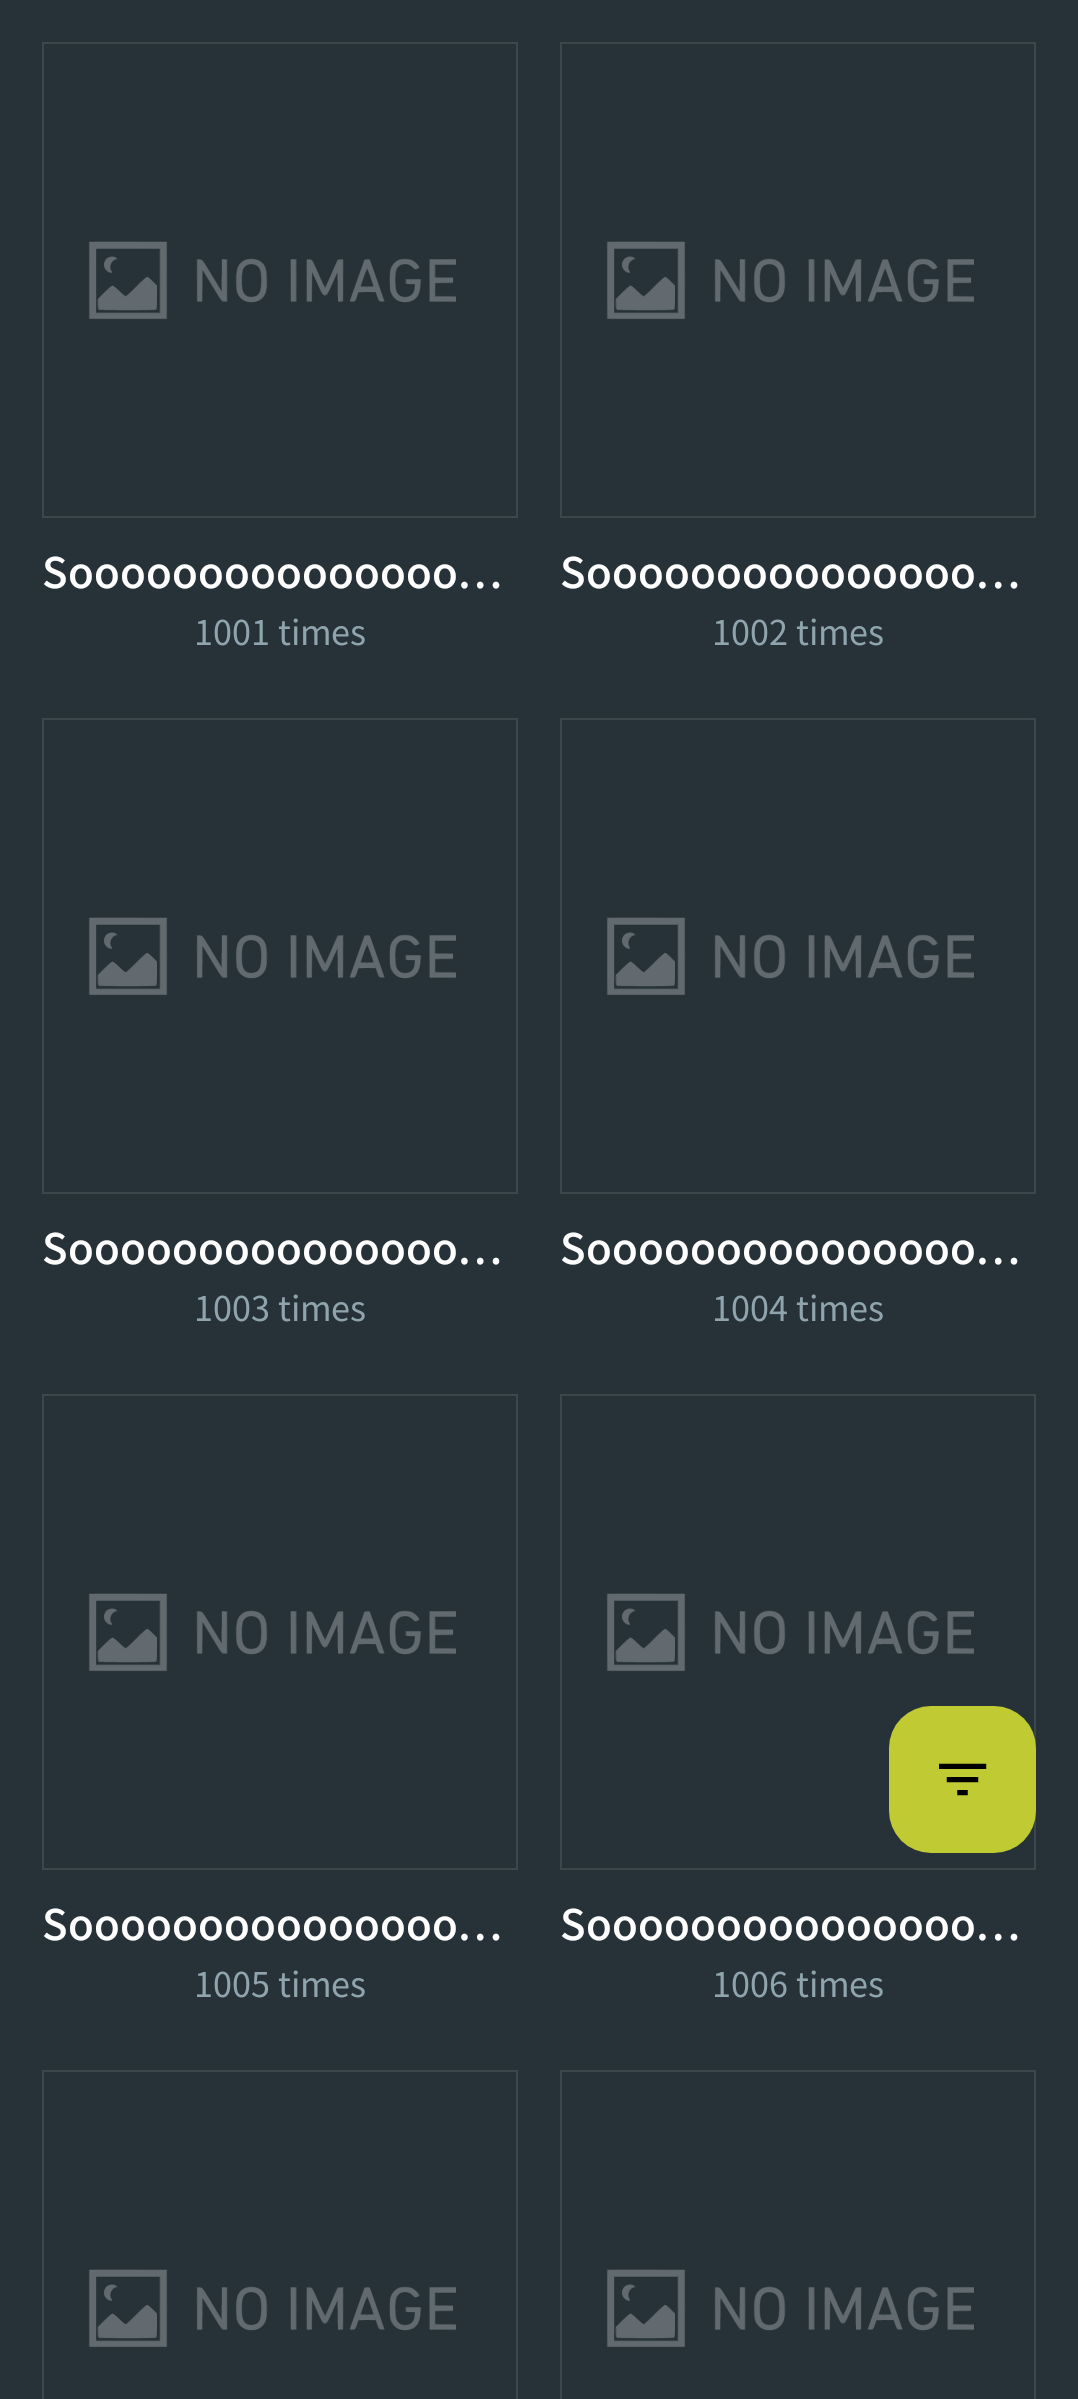
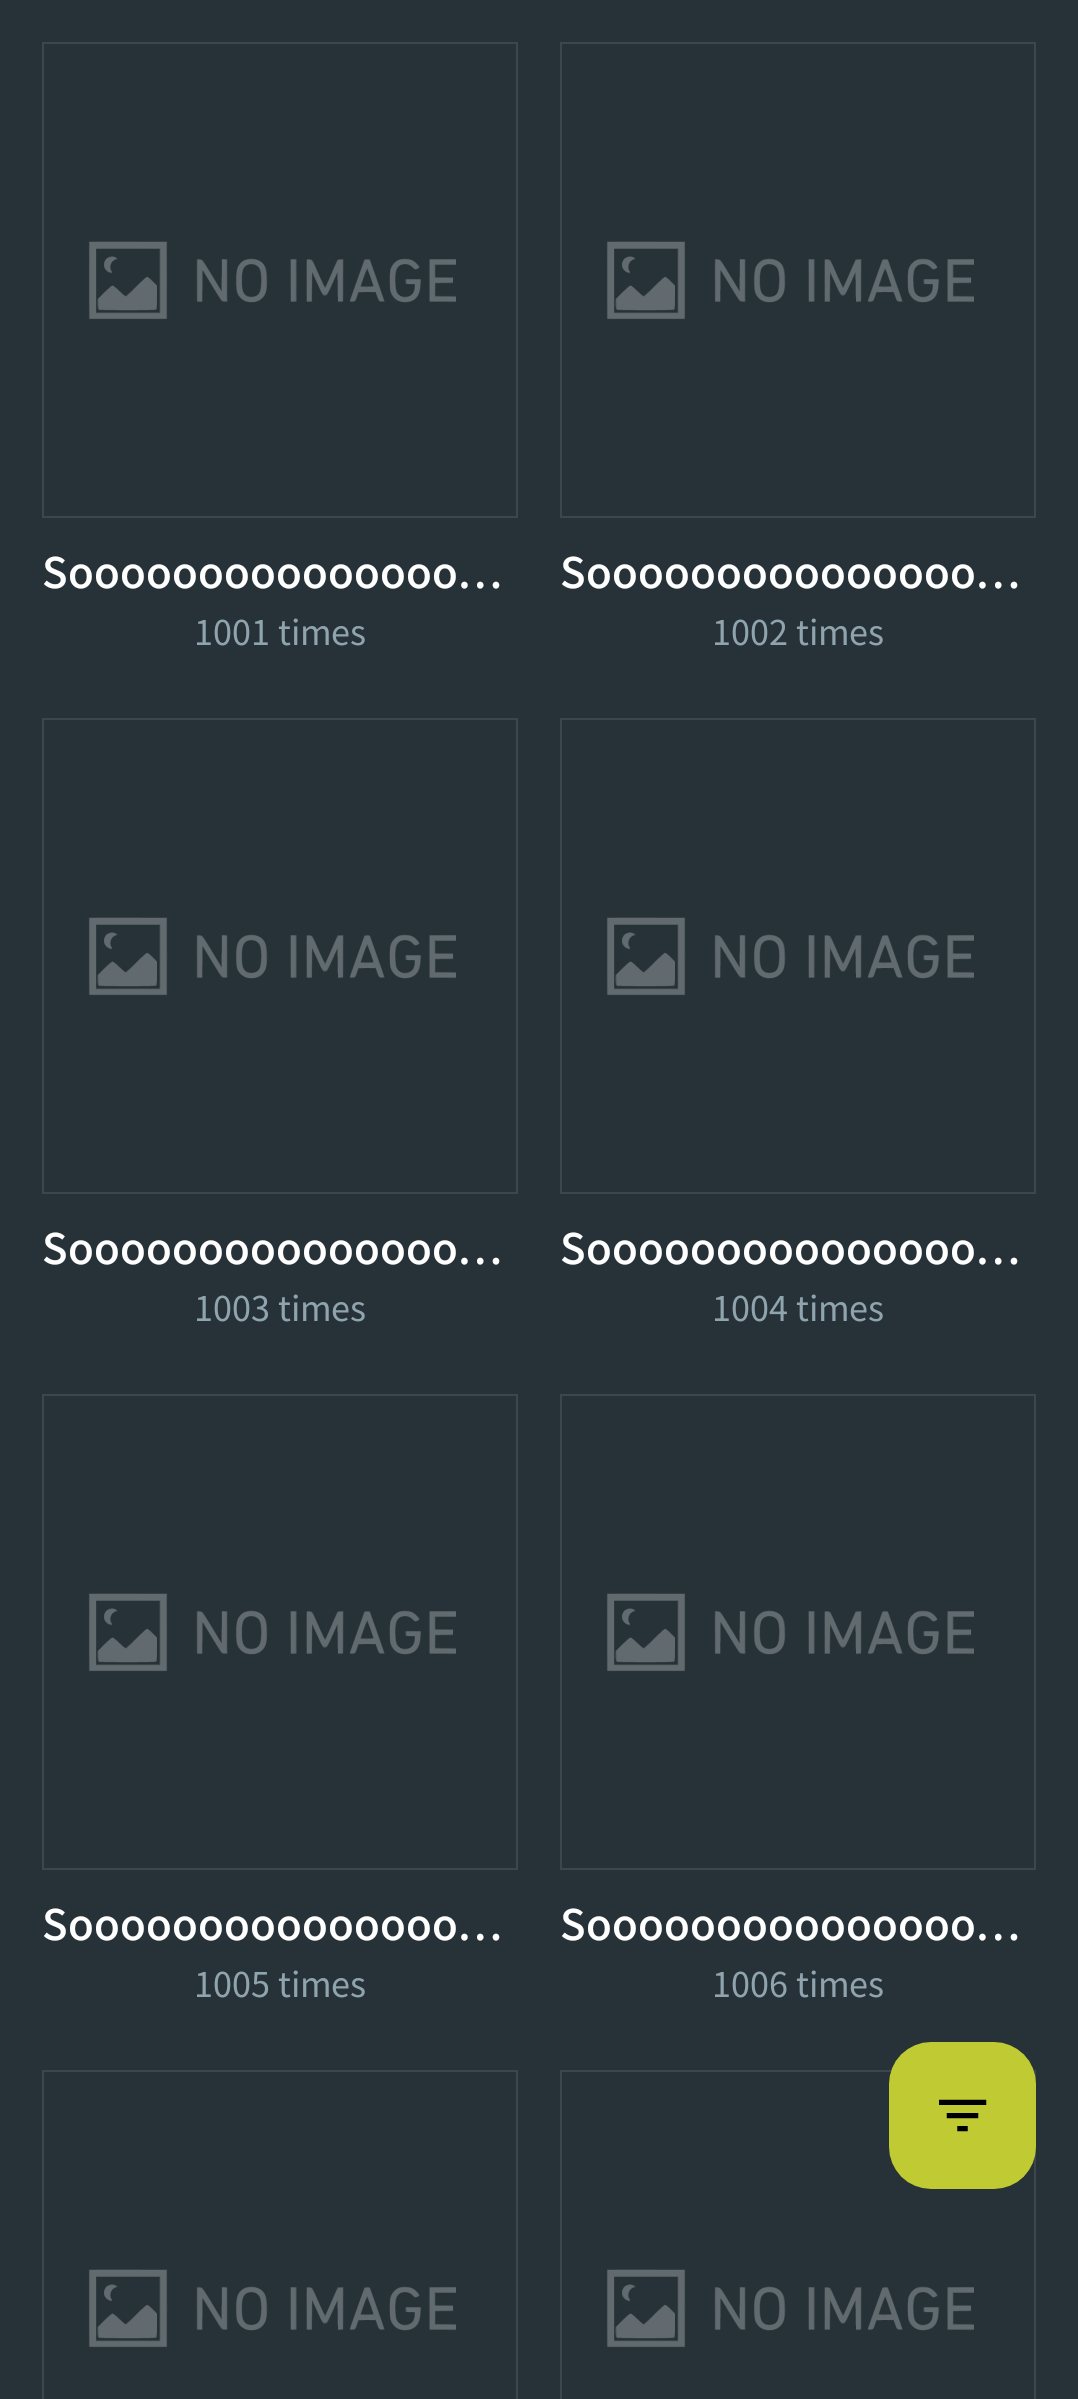
Fix FAB

Changed region(s): [[0.8265, 0.8328, 0.9796, 0.9254], [0.8265, 0.7095, 0.9796, 0.7712]]

diff --git a/feature/album/src/main/java/com/mataku/scrobscrob/album/ui/screen/TopAlbumsScreen.kt b/feature/album/src/main/java/com/mataku/scrobscrob/album/ui/screen/TopAlbumsScreen.kt
@@ -2,6 +2,7 @@ package com.mataku.scrobscrob.album.ui.screen
 
 import android.annotation.SuppressLint
 import android.content.res.Configuration
+import android.util.Log
 import androidx.activity.compose.BackHandler
 import androidx.compose.animation.AnimatedContentScope
 import androidx.compose.animation.SharedTransitionScope
@@ -10,7 +11,7 @@ import androidx.compose.foundation.layout.PaddingValues
 import androidx.compose.foundation.layout.WindowInsets
 import androidx.compose.foundation.layout.displayCutout
 import androidx.compose.foundation.layout.fillMaxSize
-import androidx.compose.foundation.layout.padding
+import androidx.compose.foundation.layout.offset
 import androidx.compose.foundation.lazy.grid.GridCells
 import androidx.compose.foundation.lazy.grid.GridItemSpan
 import androidx.compose.foundation.lazy.grid.LazyVerticalGrid
@@ -79,6 +80,9 @@ fun TopAlbumsScreen(
       topAppBarScrollBehavior.state.heightOffset
     }
   }
+  with(LocalDensity.current) {
+    Log.d("MATAKUDEBUG", "TopAppBarHeight dp: ${topAppBarHeightPixel.toDp()}")
+  }
   val density = LocalDensity.current
   Scaffold(
     floatingActionButton = {
@@ -89,10 +93,8 @@ fun TopAlbumsScreen(
           }
         },
         modifier = modifier
-          .padding(
-            bottom = 192.dp + with(density) {
-              topAppBarHeightPixel.toDp()
-            }
+          .offset(
+            y = (-64).dp
           )
       )
     }

diff --git a/feature/artist/src/main/java/com/mataku/scrobscrob/artist/ui/screen/TopArtistsScreen.kt b/feature/artist/src/main/java/com/mataku/scrobscrob/artist/ui/screen/TopArtistsScreen.kt
@@ -11,7 +11,7 @@ import androidx.compose.foundation.layout.WindowInsets
 import androidx.compose.foundation.layout.displayCutout
 import androidx.compose.foundation.layout.fillMaxSize
 import androidx.compose.foundation.layout.fillMaxWidth
-import androidx.compose.foundation.layout.padding
+import androidx.compose.foundation.layout.offset
 import androidx.compose.foundation.lazy.grid.GridCells
 import androidx.compose.foundation.lazy.grid.GridItemSpan
 import androidx.compose.foundation.lazy.grid.LazyVerticalGrid
@@ -90,10 +90,8 @@ fun TopArtistsScreen(
           }
         },
         modifier = modifier
-          .padding(
-            bottom = 192.dp + with(density) {
-              topAppBarHeightPixel.toDp()
-            }
+          .offset(
+            y = (-64).dp
           )
       )
     }

diff --git a/build-logic/convention/src/main/java/ApplicationConventionPlugin.kt b/build-logic/convention/src/main/java/ApplicationConventionPlugin.kt
@@ -9,7 +9,7 @@ import org.gradle.kotlin.dsl.configure
 
 class ApplicationConventionPlugin : Plugin<Project> {
 
-  private val appVersionName = "1.16.0"
+  private val appVersionName = "1.17.0"
 
   override fun apply(target: Project) {
     with(target) {
